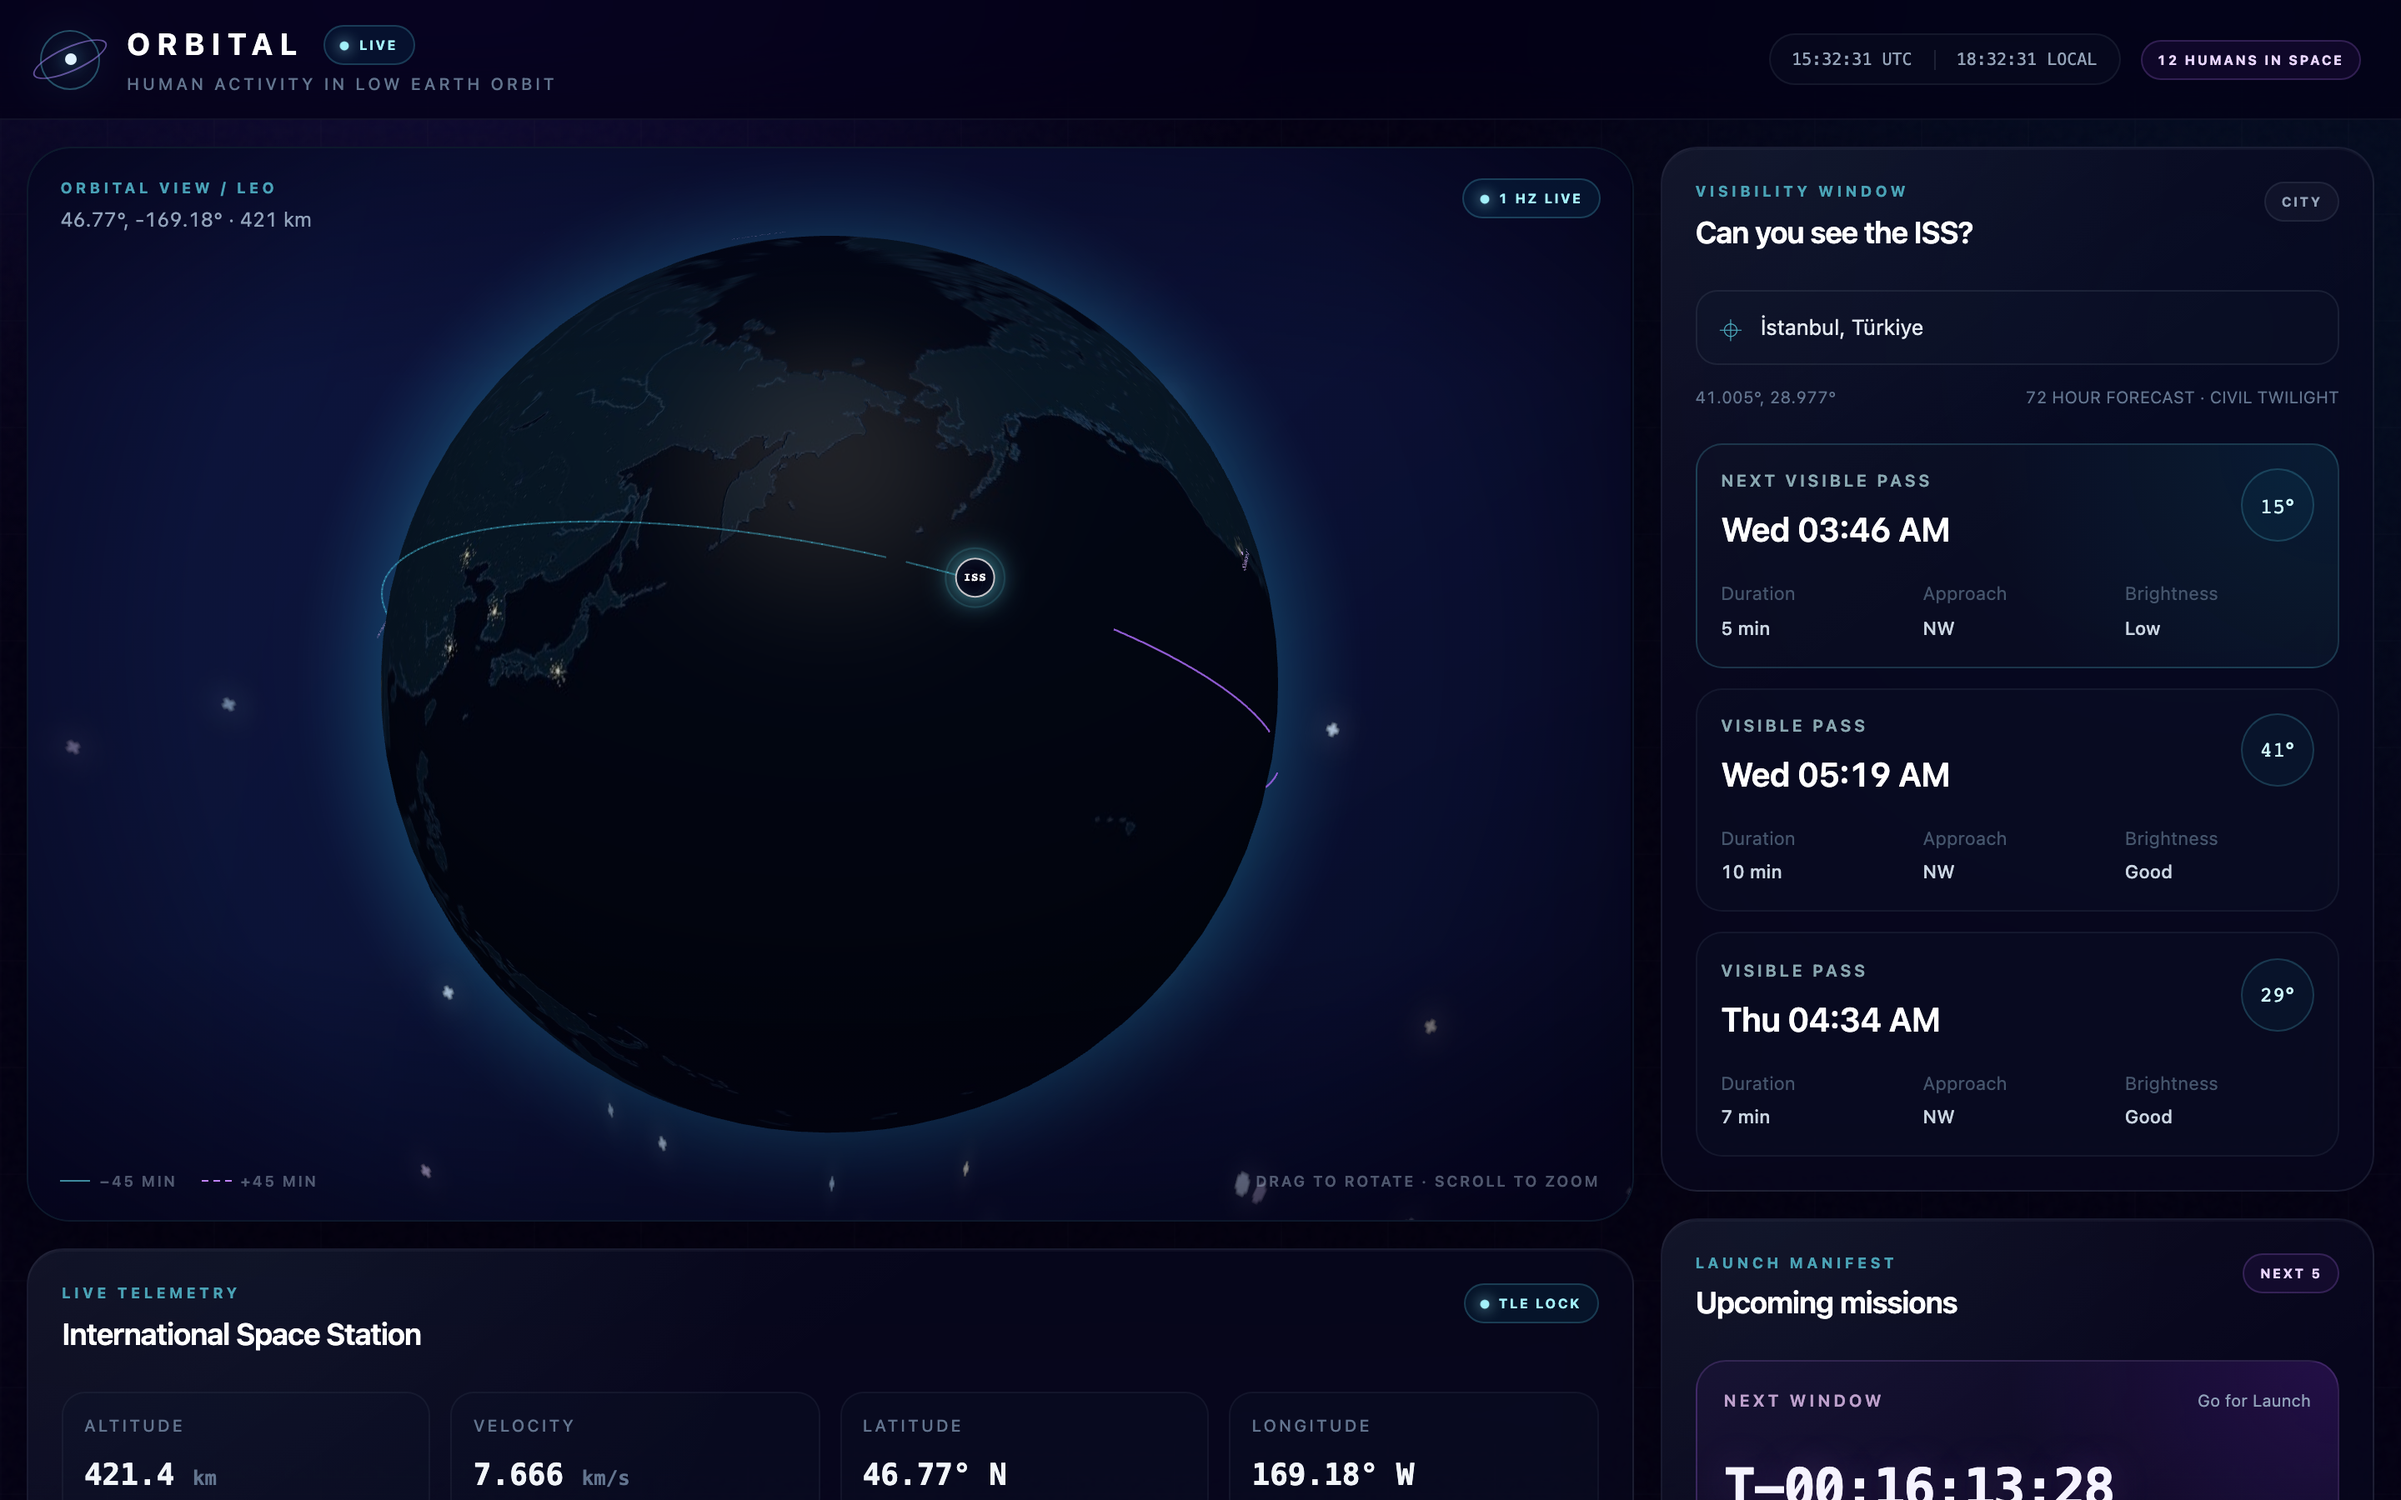
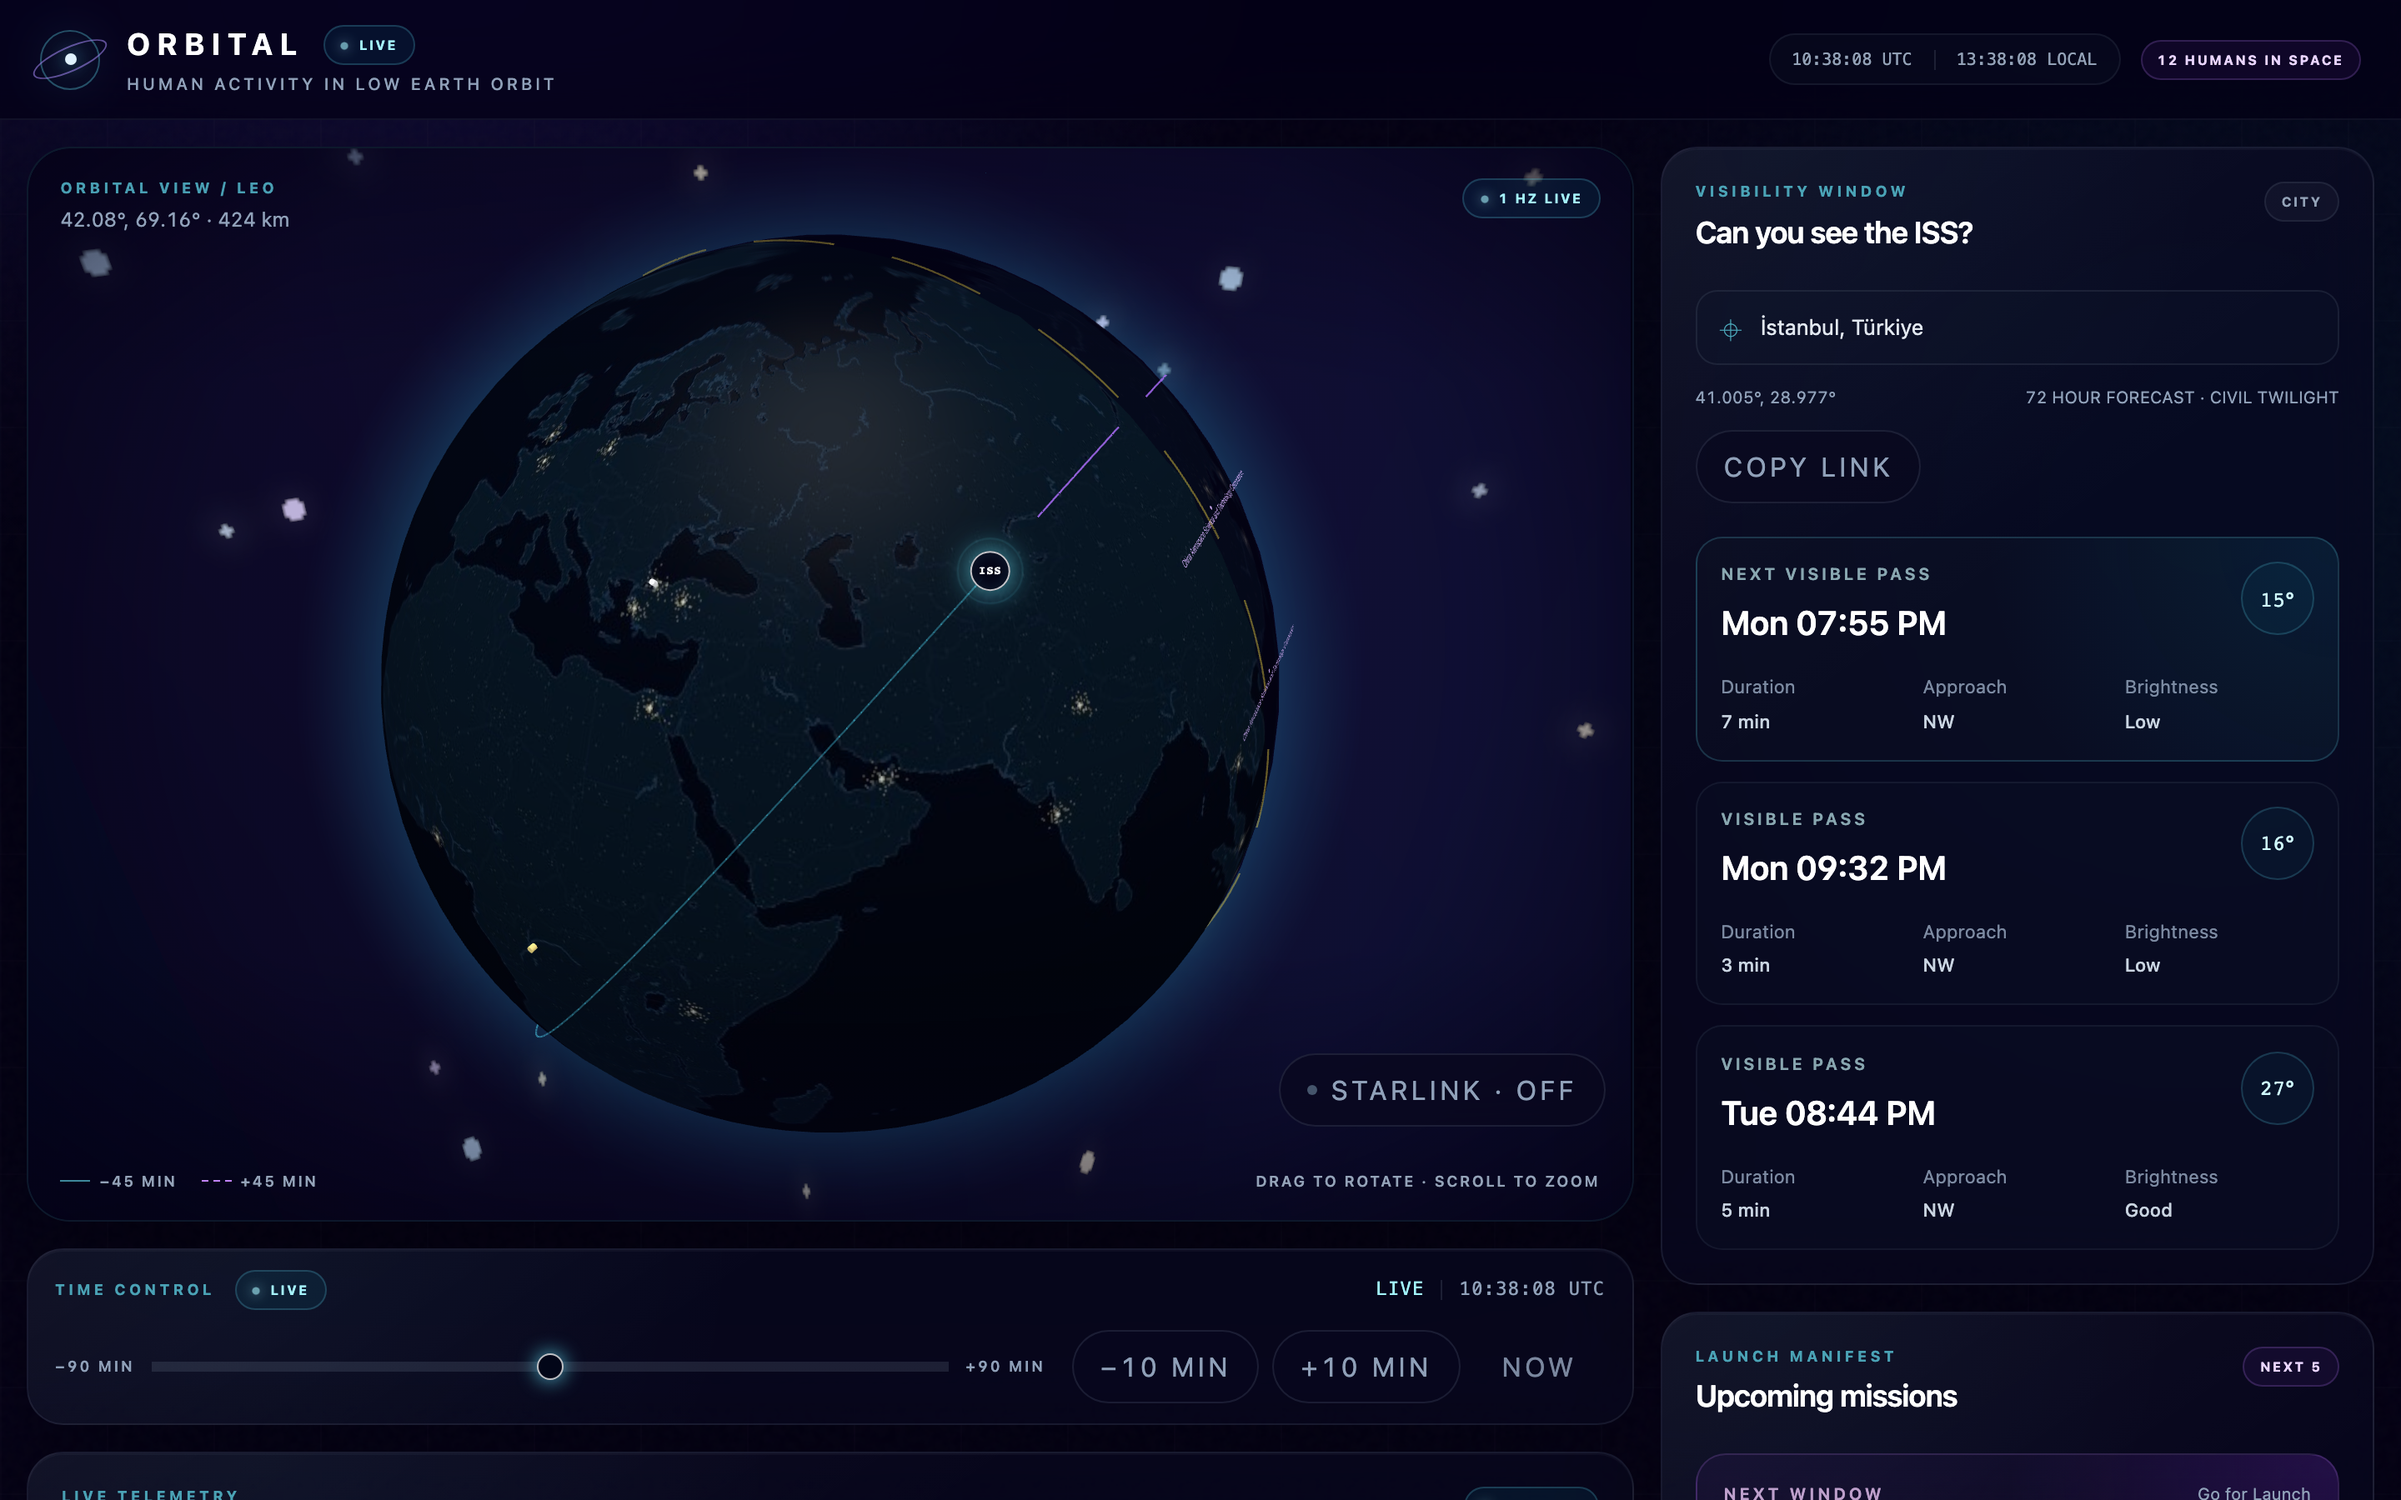
docs: make the README describe the product that exists
The first screen advertised Phase 1 and said Phases 2 and 3 had not started,
three months after both shipped. Its screenshots predated every feature added
since: no time control, no Starlink layer, no terminator, no shareable
observer link. Its coverage figures were wrong, and its test counts were less
than half the real ones.

Screenshots are recaptured from a production build at commit 563775e. The
element set was read from /api/tle/iss immediately before and after both
captures and matched, so the two images describe one orbit state; a first
attempt was discarded because the set revalidated mid-capture. The caption
says so rather than implying a single source.

The caption no longer claims corroboration with docs/PASS_VALIDATION.md. That
record was computed from a different element set, so repeating the claim would
have been asserting a cross-check nobody performed.

Figures are removed from prose rather than corrected. Byte counts point at
docs/perf/, contrast measurements at docs/a11y/, and coverage at the floors
CI actually enforces plus the command that prints the current values. The
README had already shipped numbers that were wrong by the time anyone read
them, which is the argument.

diff --git a/README.md b/README.md
@@ -4,11 +4,11 @@
 
 ![ORBITAL dashboard — live ISS globe with past and future ground tracks, visible-pass forecast and launch manifest](./public/screenshots/orbital-desktop.png)
 
-<sub>Captured from a production build (`npm run build && npm run start`), 2026-09-01T15:32Z, against CelesTrak element set `26244.17592806` — verified by reading `/api/tle/iss` immediately before and after the capture rather than assuming the server's fetch cache was warm. The visible-pass cards read 05:19 at 41° and 03:46 at 15°, which is what [`docs/PASS_VALIDATION.md`](./docs/PASS_VALIDATION.md) independently predicts from the same element set, so the image and that record corroborate each other. The 375 px capture is [here](./public/screenshots/orbital-mobile-375.png).</sub>
+<sub>Captured from a production build (`npm run build && next start`) at 2026-09-21T10:38Z, commit `563775e`, propagating CelesTrak element set `26264.17466374`. `/api/tle/iss` was read immediately before and after both captures and returned the same element set, so the two images describe one orbit state rather than whatever the fetch cache happened to hold — an earlier attempt was discarded because the set revalidated mid-capture. Nothing in the frame is mocked: the pass times, crew count, clocks and launch manifest are what the running app produced. The 375 px capture is [here](./public/screenshots/orbital-mobile-375.png).</sub>
 
-> **Status — Phase 1 (MVP) is built.** Every objective ships as its own pull request, and `scripts/ship-pr.mjs` refuses to merge one without CI plus two independent review verdicts bound to the exact commit being merged. 81 unit tests and 30 end-to-end tests run on every pull request, the latter in both a desktop and a 375 px viewport — 60 browser runs.
+> **Status — all three roadmap phases are built.** Every objective ships as its own pull request, and `scripts/ship-pr.mjs` refuses to merge one without CI plus two independent review verdicts bound to the exact commit being merged. The unit suite and the end-to-end suite both run on every pull request, the latter across a desktop and a 375 px viewport as two separate checks, alongside lint, typecheck, a production build, CodeQL and a first-load byte budget.
 >
-> Two Definition-of-Done items are **not** met and are not presented as if they were: there is no public deployment yet (no Vercel account is attached to this repository), and the pass prediction has not been compared against an external predictor by a human. Both are tracked openly in [`docs/PHASE_1_DOD.md`](./docs/PHASE_1_DOD.md). No deployment URL, screenshot, Lighthouse score or accuracy figure appears anywhere in this repository until it has actually been measured.
+> One Definition-of-Done item is **not** met and is not presented as if it were: there is still no public deployment, so no demo URL appears anywhere in this repository. The pass prediction has also not been compared against an external predictor by a human. Both are tracked openly in [`docs/PHASE_1_DOD.md`](./docs/PHASE_1_DOD.md). No deployment URL, Lighthouse score or accuracy figure appears here until it has actually been measured — and the same rule is enforced on the engineering numbers: figures live in regenerable artefacts under [`docs/perf/`](./docs/perf/) and [`docs/a11y/`](./docs/a11y/), not in prose, because a figure nothing regenerates is checked by nothing.
 
 ## The first-screen experience
 
@@ -90,7 +90,9 @@ npm run verify
 
 Orbital tests use deterministic UTC dates and physical invariants: latitude/longitude bounds, LEO altitude and velocity ranges, chronological pass geometry, visibility gates and antimeridian segmentation. Network behavior is tested at the normalization/proxy boundary with mocked upstreams. Mobile E2E enforces a 375 px no-overflow contract.
 
-CI runs lint, typecheck, unit tests with coverage, a production build, and the full end-to-end suite against **both** Playwright projects, each reporting as its own check. Coverage is measured over the orbital mathematics and the four gateway routes — 96.33% of statements and 90.38% of branches, with `lib/propagation.ts` and `lib/sun.ts` at 100%. Components and hooks are deliberately outside that denominator; they are covered end-to-end instead, so the percentage is not a repository-wide figure.
+CI runs lint, typecheck, the unit suite with coverage, a production build, the first-load byte budget, and the full end-to-end suite against **both** Playwright projects, each reporting as its own check. Coverage is measured over the orbital mathematics and the four gateway routes, not repository-wide: components and hooks are deliberately outside that denominator and are covered end-to-end instead. The floors CI enforces are 80% of lines, statements and functions and 70% of branches ([`vitest.config.ts`](./vitest.config.ts)); the suite runs well above all four.
+
+Counts and percentages are not quoted here. `npm run test:coverage` prints both in a few seconds, and this repository has already shipped a README claiming coverage figures that were wrong by the time anyone read them. A number nothing regenerates is checked by nothing — the same rule that keeps byte counts in [`docs/perf/`](./docs/perf/) rather than in prose.
 
 Resilience is treated as behaviour to assert, not a hope. `e2e/resilience.spec.ts` breaks each upstream in turn — and all three at once — and requires the surface that *owns* the broken feed to name the failure. An outage may not render as an empty state, and an empty response may not render as an outage.
 
@@ -124,9 +126,9 @@ npm run textures                              # regenerate the procedural globe 
 
 **Phase 1 — built.** Hardened gateways ([#28](https://github.com/MertArtun/orbital/pull/28)), verified propagation ([#29](https://github.com/MertArtun/orbital/pull/29)), cinematic ISS globe ([#30](https://github.com/MertArtun/orbital/pull/30)), visible passes ([#31](https://github.com/MertArtun/orbital/pull/31)), mission-control panels ([#33](https://github.com/MertArtun/orbital/pull/33)), resilience/mobile/a11y gates ([#34](https://github.com/MertArtun/orbital/pull/34)), on a reproducible toolchain ([#24](https://github.com/MertArtun/orbital/pull/24)). This release is the eighth objective.
 
-**Phase 2 — not started.** Worker-propagated Starlink sample, ±90-minute simulated time, terminator/shadow detail and APOD.
+**Phase 2 — built.** Reduced-motion marker fix ([#41](https://github.com/MertArtun/orbital/pull/41)), worker-propagated Starlink sample ([#45](https://github.com/MertArtun/orbital/pull/45)), ±90-minute simulated time ([#47](https://github.com/MertArtun/orbital/pull/47)), terminator/shadow detail and APOD ([#48](https://github.com/MertArtun/orbital/pull/48)), idle globe rotation before the first fix ([#49](https://github.com/MertArtun/orbital/pull/49)).
 
-**Phase 3 — not started.** Shareable observer URLs, measured Lighthouse/bundle optimization and final release media.
+**Phase 3 — built.** Shareable observer URLs ([#50](https://github.com/MertArtun/orbital/pull/50)) and measured performance and accessibility ([#52](https://github.com/MertArtun/orbital/pull/52)), which moved the telemetry chart off the first load, cut the initial payload by roughly a third against a budget CI now enforces on every pull request, and cleared every contrast finding at both viewports. The byte counts are in [`docs/perf/production-baseline.json`](./docs/perf/production-baseline.json) and the over-canvas contrast measurements in [`docs/a11y/ink-contrast.json`](./docs/a11y/ink-contrast.json), regenerated by one command each — this sentence deliberately carries none of them. Its decisions and the defects found while attacking its own gates are in [ADR 0009](./docs/adr/0009-performance-measurement-policy.md). This release is the final objective.
 
 The machine-readable acceptance criteria and dependencies are in [`goals/roadmap.json`](./goals/roadmap.json).
 
